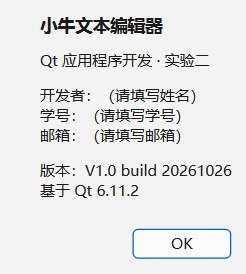
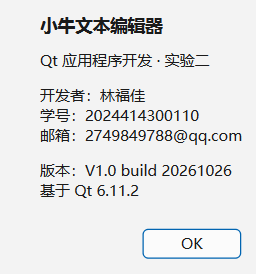
chore: 填写作者信息并更新关于对话框截图与说明文档

diff --git a/mainwindow.cpp b/mainwindow.cpp
@@ -56,10 +56,10 @@ QIcon glyphIcon(const QString &glyph)
 // 单文件大小上限，防止误开超大文件把界面卡死
 const qint64 kMaxFileSize = 20LL * 1024 * 1024;
 
-// ↓↓↓ 请把下面三项改成自己的信息（“关于”对话框会显示）↓↓↓
-const QString kAuthorName = QStringLiteral("（请填写姓名）");
-const QString kAuthorId = QStringLiteral("（请填写学号）");
-const QString kAuthorEmail = QStringLiteral("（请填写邮箱）");
+// 作者信息（“关于”对话框显示）
+const QString kAuthorName = QStringLiteral("林福佳");
+const QString kAuthorId = QStringLiteral("2024414300110");
+const QString kAuthorEmail = QStringLiteral("2749849788@qq.com");
 
 } // namespace
 

diff --git a/视频演示与Git提交清单.md b/视频演示与Git提交清单.md
@@ -1,5 +1,21 @@
 # 实验2 视频演示清单 与 Git 提交说明
 
+> **当前状态（2026-10-26 21:45 更新）**：4 次提交已完成，工作区干净，`origin` 已指向
+> `https://github.com/linfj666/lab2editor.git`，尚未推送成功（校园网连不上 GitHub 443，见文末"网络问题"）。
+>
+> | # | 哈希 | 提交信息 | 涉及文件 |
+> |---|---|---|---|
+> | 1 | `261c075` | chore: 初始化 lab2 工程骨架与 .gitignore | .gitignore / .pro / main.cpp / mainwindow.h / mainwindow.ui |
+> | 2 | `59c8dbf` | feat: 实现文本编辑器（文件读写/编辑动作/格式/查找替换/行号） | mainwindow.cpp / codeeditor.* / finddialog.* / replacedialog.* / README.md |
+> | 3 | `27a8508` | docs: 补充测试报告、界面截图与视频/Git 提交清单 | screenshots/ 11 张 + 测试报告.txt + 本文档 |
+> | 4 | `d381215` | chore: 添加 .gitattributes 统一文本文件换行 | .gitattributes |
+>
+> 下面的第三节是"从零重演一遍"的参考流程，其中第 3、4 次提交已按实际结果调整过；
+> 若与实际历史有出入，**以本表为准**。
+> 之后若再新增提交（例如把作者信息、更新后的截图入库），报告第五节会自动读取真实 `git log`，
+> 只需重新生成一次报告即可，不需要手工改哈希或贴图。
+
+
 配套工程：`D:\大学课程\大三上\Qt\lab2\lab2editor\`
 配套报告：`D:\大学课程\大三上\Qt\lab2\实验2-简单文本编辑器_2026秋-已完成.docx`
 
@@ -90,22 +106,22 @@ git add mainwindow.cpp codeeditor.h codeeditor.cpp `
 git commit -m "feat: 实现文本编辑器（文件读写/编辑动作/格式/查找替换/行号）"
 ```
 
-### 第 3 次提交：边界修复
+### 第 3 次提交：文档与截图
 
-> 这一步是"改过 bug"的证据，正是报告第三部分写的那几个问题。
-> 如果你只想留一次修复提交，就把下面三处改动合并成一次提交。
+> 实际情况：代码的几处修复（查找回绕、全部替换死循环、段落分隔符、提示框中文按钮）已经包含在第 2 次提交里，
+> 所以这一次只提交文档与截图，用 `docs:` 前缀。
 
 ```powershell
-# 确认工作区是干净的；若要重演修复过程，可先改回有问题的写法再提交修复
-git add -A
-git commit -m "fix: 修复查找回绕、全部替换死循环、搜索框段落分隔符与提示框中文按钮" --allow-empty
+git add screenshots 测试报告.txt 视频演示与Git提交清单.md
+git commit -m "docs: 补充测试报告、界面截图与视频/Git 提交清单"
 ```
 
-### 第 4 次提交：文档与截图
+### 第 4 次提交：统一换行（已执行）
 
 ```powershell
-git add screenshots 测试报告.txt
-git commit -m "docs: 补充 README、自动化测试报告与界面截图"
+"* text=auto eol=lf" | Set-Content -Encoding ascii .gitattributes
+git add .gitattributes
+git commit -m "chore: 添加 .gitattributes 统一文本文件换行"
 ```
 
 ### 推送到 GitHub
@@ -130,10 +146,56 @@ git ls-files | Select-String 'build'   # 应无输出（构建产物没入库）
 
 | 位置 | 内容 | 说明 |
 |---|---|---|
-| 表格第 1 行 | 姓名 / 学号 / 班级 | 报告里目前是"（待填写）" |
-| 表格第 2 行 | 实验地点 | 目前是"（待填写）" |
-| 表格第 2 行 | 实验日期 / 指导老师 | 已填 2026 年 10 月 26 日 / 刘文果，不对就改 |
-| `screenshots\05_关于对话框.png` | 姓名 / 学号 / 邮箱 | 改 `mainwindow.cpp` 顶部三个常量后重新编译，再截一次图替换 |
-| 报告第五部分 | `git log` 截图 | 跑完上面的提交步骤后截一张贴进去 |
+| 表格第 1 行 | 姓名 / 学号 / 班级 | **已填写**：林福佳 / 2024414300110 / 24软卓一班 |
+| 表格第 2 行 | 实验地点 / 日期 / 指导老师 | **已填写**：8b302 / 2026 年 10 月 26 日 / 刘文果 |
+| `screenshots\05_关于对话框.png` | 姓名 / 学号 / 邮箱 | 已改为真实信息并重新生成 |
+| 报告第五部分 | `git log` 列表 | 自动读取真实提交历史（文本形式），无需手工贴图 |
 
 改完个人信息后重新生成截图的方法（可选）：在 Qt Creator 里跑起程序 → 帮助→关于 → 用 Win+Shift+S 截图 → 覆盖 `screenshots\05_关于对话框.png` 即可。
+
+---
+
+## 五、网络问题：GitHub 连不上怎么办
+
+现象：
+
+```
+fatal: unable to access 'https://github.com/...': Failed to connect to github.com port 443 after 21109 ms
+```
+
+说明是网络层不通（不是权限、不是仓库不存在）。按顺序试：
+
+1. **开代理再推**（最干净）
+   ```powershell
+   # 先启动代理软件并开启系统代理/TUN，确认端口（Clash Verge 通常 7897，Clash for Windows 7890）
+   git config --global http.https://github.com.proxy http://127.0.0.1:7897
+   git ls-remote https://github.com/linfj666/lab2editor.git    # 能列出 refs 就通了
+   git push -u origin main
+   # 用完想撤掉：
+   git config --global --unset http.https://github.com.proxy
+   ```
+
+2. **试 SSH 的 443 端口**（HTTPS 被拦但 SSH 主机可能能通）
+   ```powershell
+   ssh -T -p 443 git@ssh.github.com
+   ```
+
+3. **Gitee 保底**（不需要代理，今天就能交；历史完全一样）
+   ```powershell
+   # 到 gitee.com 建空仓库 lab2editor
+   git remote add gitee https://gitee.com/账号/lab2editor.git
+   git push -u gitee main
+   # 网络恢复后再补推 GitHub，哈希不变：
+   git push origin main
+   ```
+
+4. **完全离线转移**（兜底）
+   ```powershell
+   git bundle create ..\lab2editor.bundle --all
+   # 拷到有网的电脑：git clone lab2editor.bundle → 设 remote → push
+   ```
+
+**不要做**：`git config --global http.sslVerify false`（关证书校验）、把 remote 改成第三方加速镜像（token 会经过陌生服务器）、反复重试（每次卡 21 秒）。
+
+**不影响交作业的部分**：3～4 条提交、`git log` 截图、报告的 Git 一节都已就绪，只有"网页 Commits 截图"和"仓库链接"依赖网络。
+
